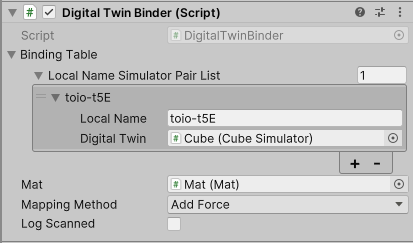
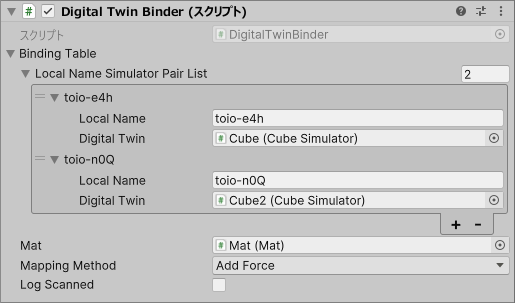
Update Sample_DigtalTwin docs

diff --git a/toio-sdk-unity/Assets/toio-sdk/Samples/Sample_DigitalTwin/README.md b/toio-sdk-unity/Assets/toio-sdk/Samples/Sample_DigitalTwin/README.md
@@ -18,7 +18,9 @@
 </div>
 <br>
 
-ゲームオブジェクト`Binder`のインスペクターで、`Binding Table` に接続したいリアルキューブのローカルネームと、動きを再現させたいシミュレーターキューブを設定します。（この図の場合、`toio-t5E` というローカルネームのリアルキューブと接続し、その動きを `Cube` という名前のシミュレーターキューブに再現させます）
+ゲームオブジェクト`Binder`のインスペクターで、`Binding Table` に接続したいリアルキューブのローカルネームと、動きを再現させたいシミュレーターキューブを設定します。
+
+この図の場合、`toio-e4h` というローカルネームのリアルキューブと接続できれば、その動きを `Cube` という名前のシミュレーターキューブに再現させます；`toio-n0Q`と接続できれば、 `Cube2` に再現させます。また、接続できなければ、対応シミュレーターは動きません。リストに設定していないローカルネームのキューブとは接続しません
 
 他のパラメータ（次節を参照）を任意に設定して実行・ビルドします。
 

diff --git a/toio-sdk-unity/Assets/toio-sdk/Samples/Sample_DigitalTwin/README_EN.md b/toio-sdk-unity/Assets/toio-sdk/Samples/Sample_DigitalTwin/README_EN.md
@@ -18,7 +18,9 @@ There are three scripts:
 </div>
 <br>
 
-In the inspector of the GameObject `Binder`, set the local name of the real cube you want to connect to in the `Binding Table`, along with the simulator cube where you want to replicate its movements. (In this example, connect to a real cube named `toio-t5E` and replicate its movements to a simulator cube named `Cube`.)
+In the inspector of the GameObject `Binder`, set the local name of the real cube you want to connect to in the `Binding Table`, along with the simulator cube where you want to replicate its movements.
+
+In this example, if you can connect to a real cube with the local name `toio-e4h`, its movements will be replicated in a simulator cube named `Cube`; if you can connect to `toio-n0Q`, the movements will be replicated in `Cube2`. If a connection cannot be established, the corresponding simulator will not move. It will not connect to cubes with local names not listed in the settings.
 
 Set other parameters (refer to the next section) as desired and execute/build.
 
